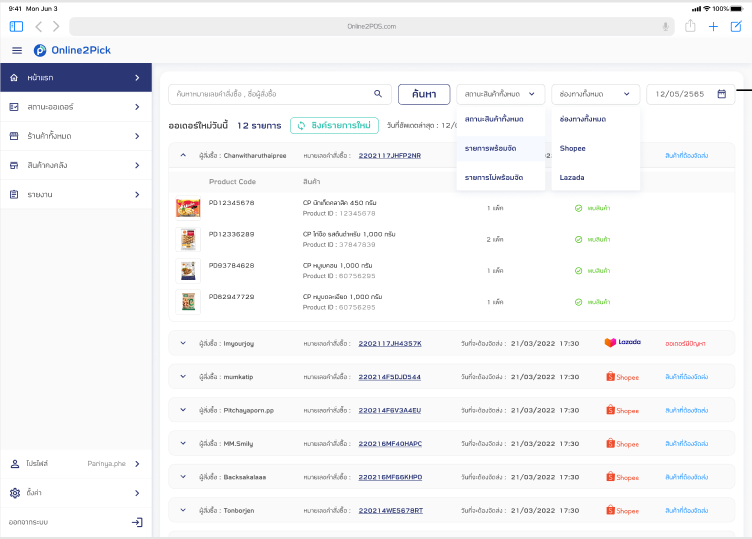
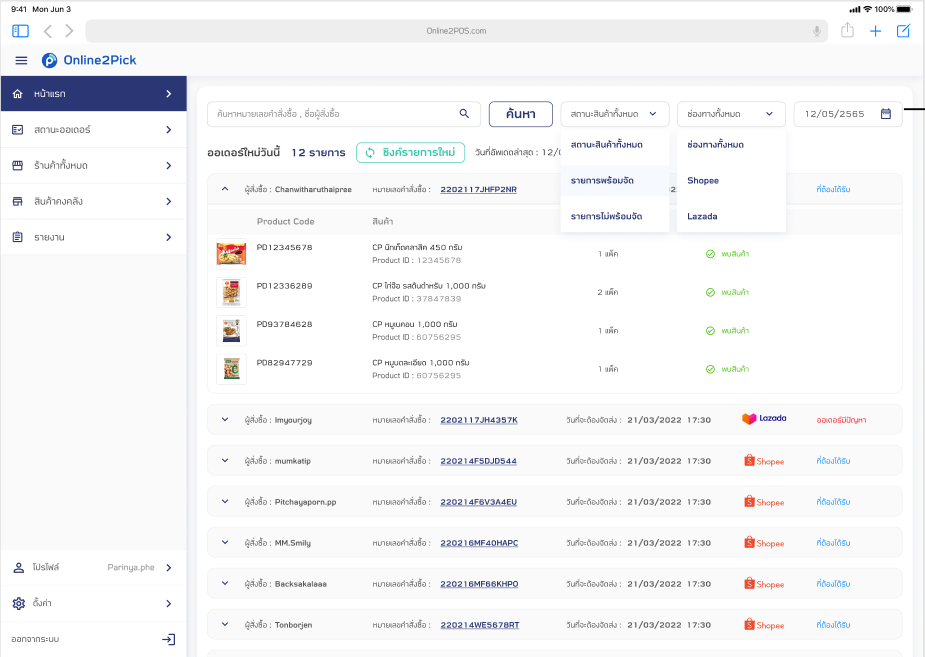
remove min-h-screen

diff --git a/src/styles/globals.css b/src/styles/globals.css
@@ -110,7 +110,7 @@ p{
     @apply bg-tertiary text-secondary rounded-2xl p-2 text-base hover:bg-white transition-all ease-in duration-100
    }
    .main-container{
-    @apply max-w-[1024px] w-full flex justify-evenly items-center flex-wrap mx-auto p-4 scroll-mt-20 text-center min-h-screen flex-col
+    @apply max-w-[1024px] w-full flex justify-evenly items-center flex-wrap mx-auto p-4 scroll-mt-20 text-center flex-col
    }
  }
 /* :root {
